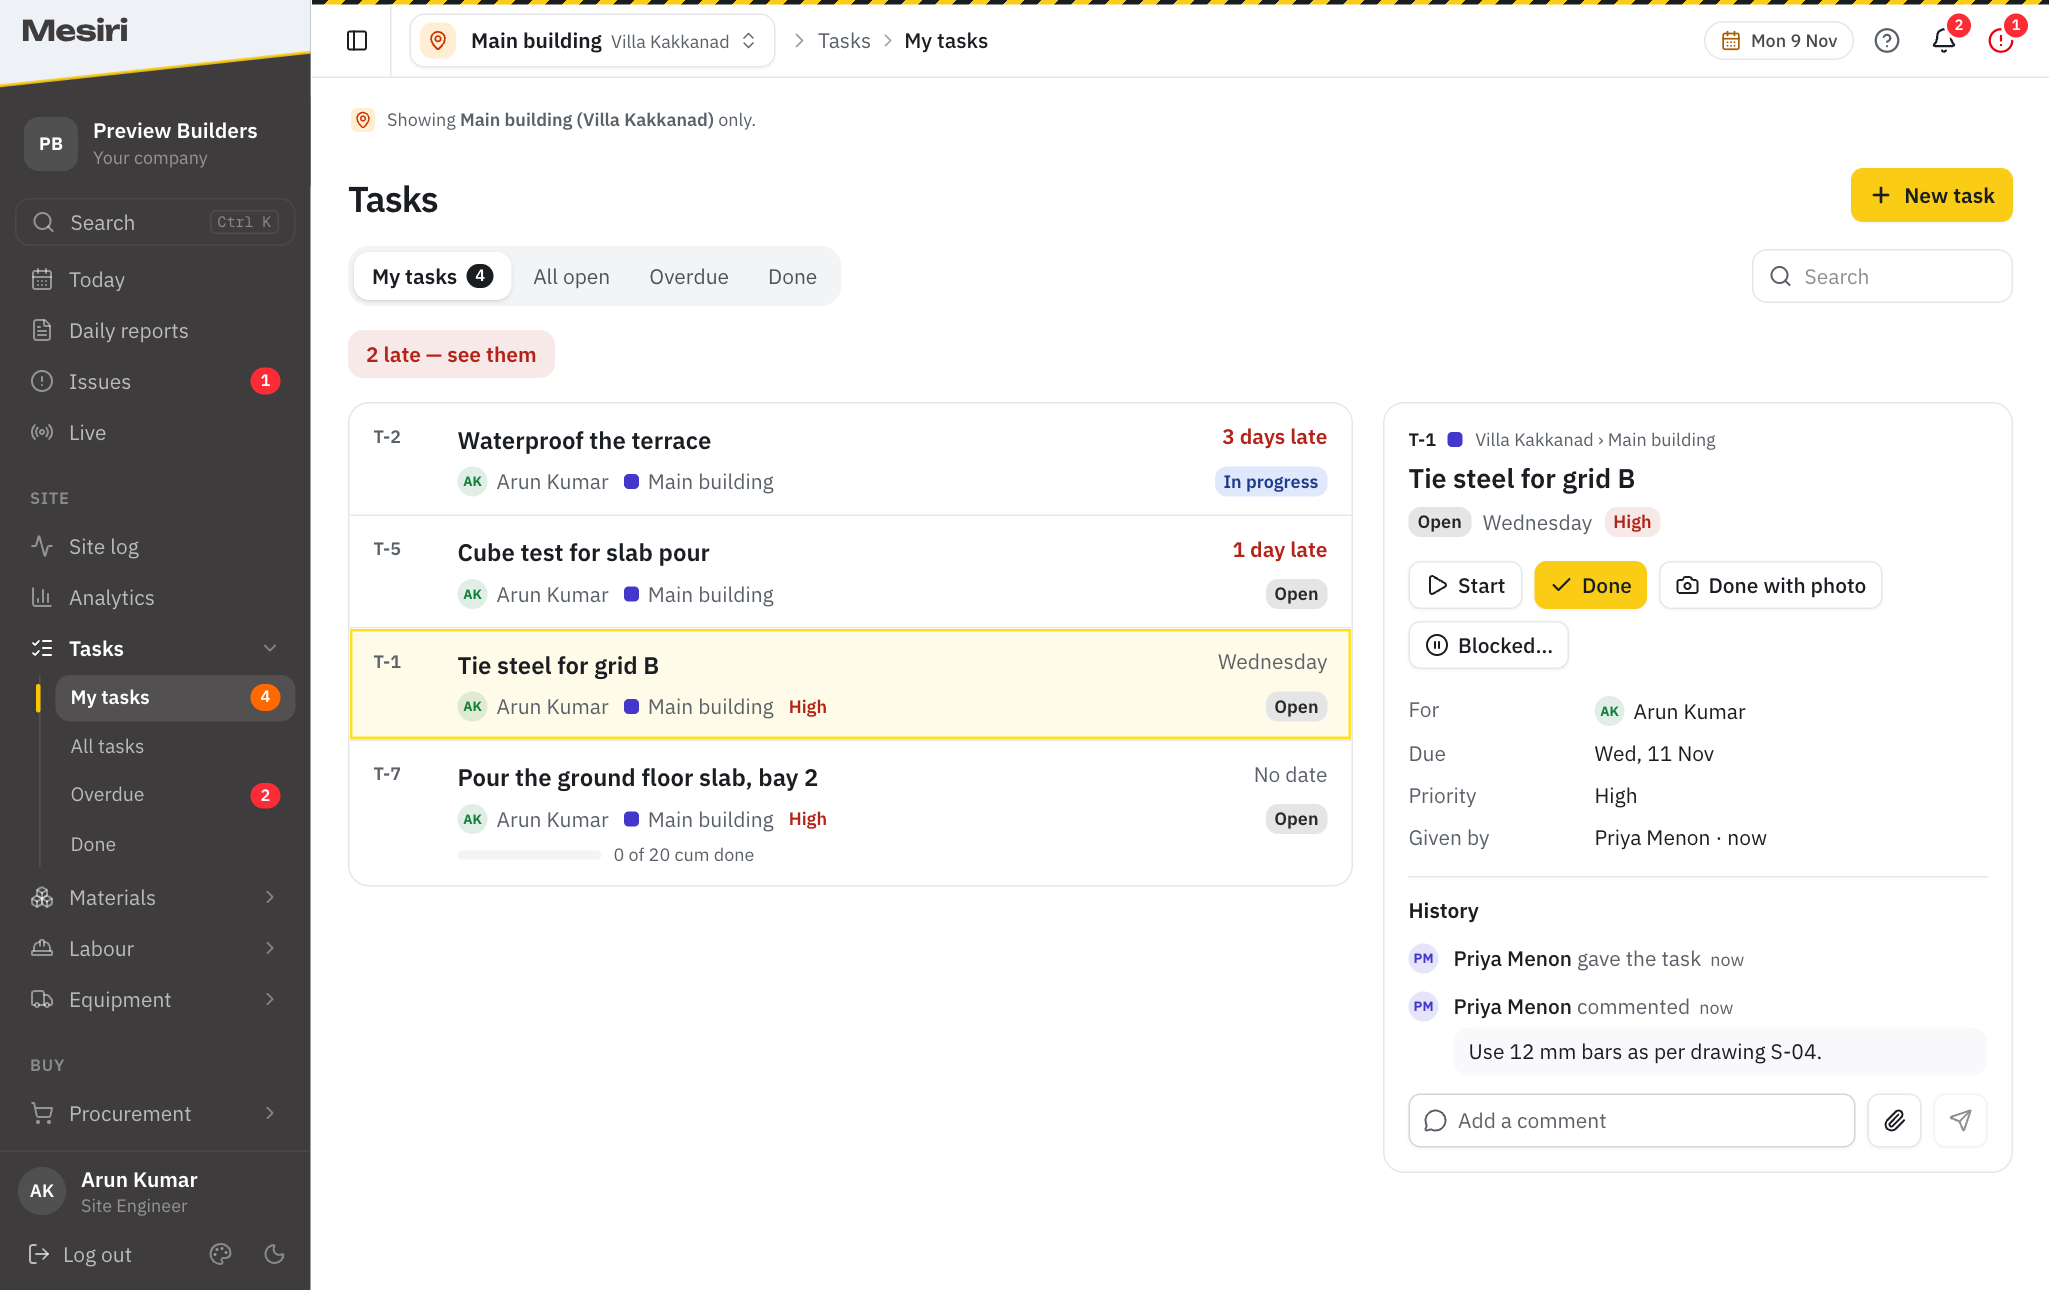
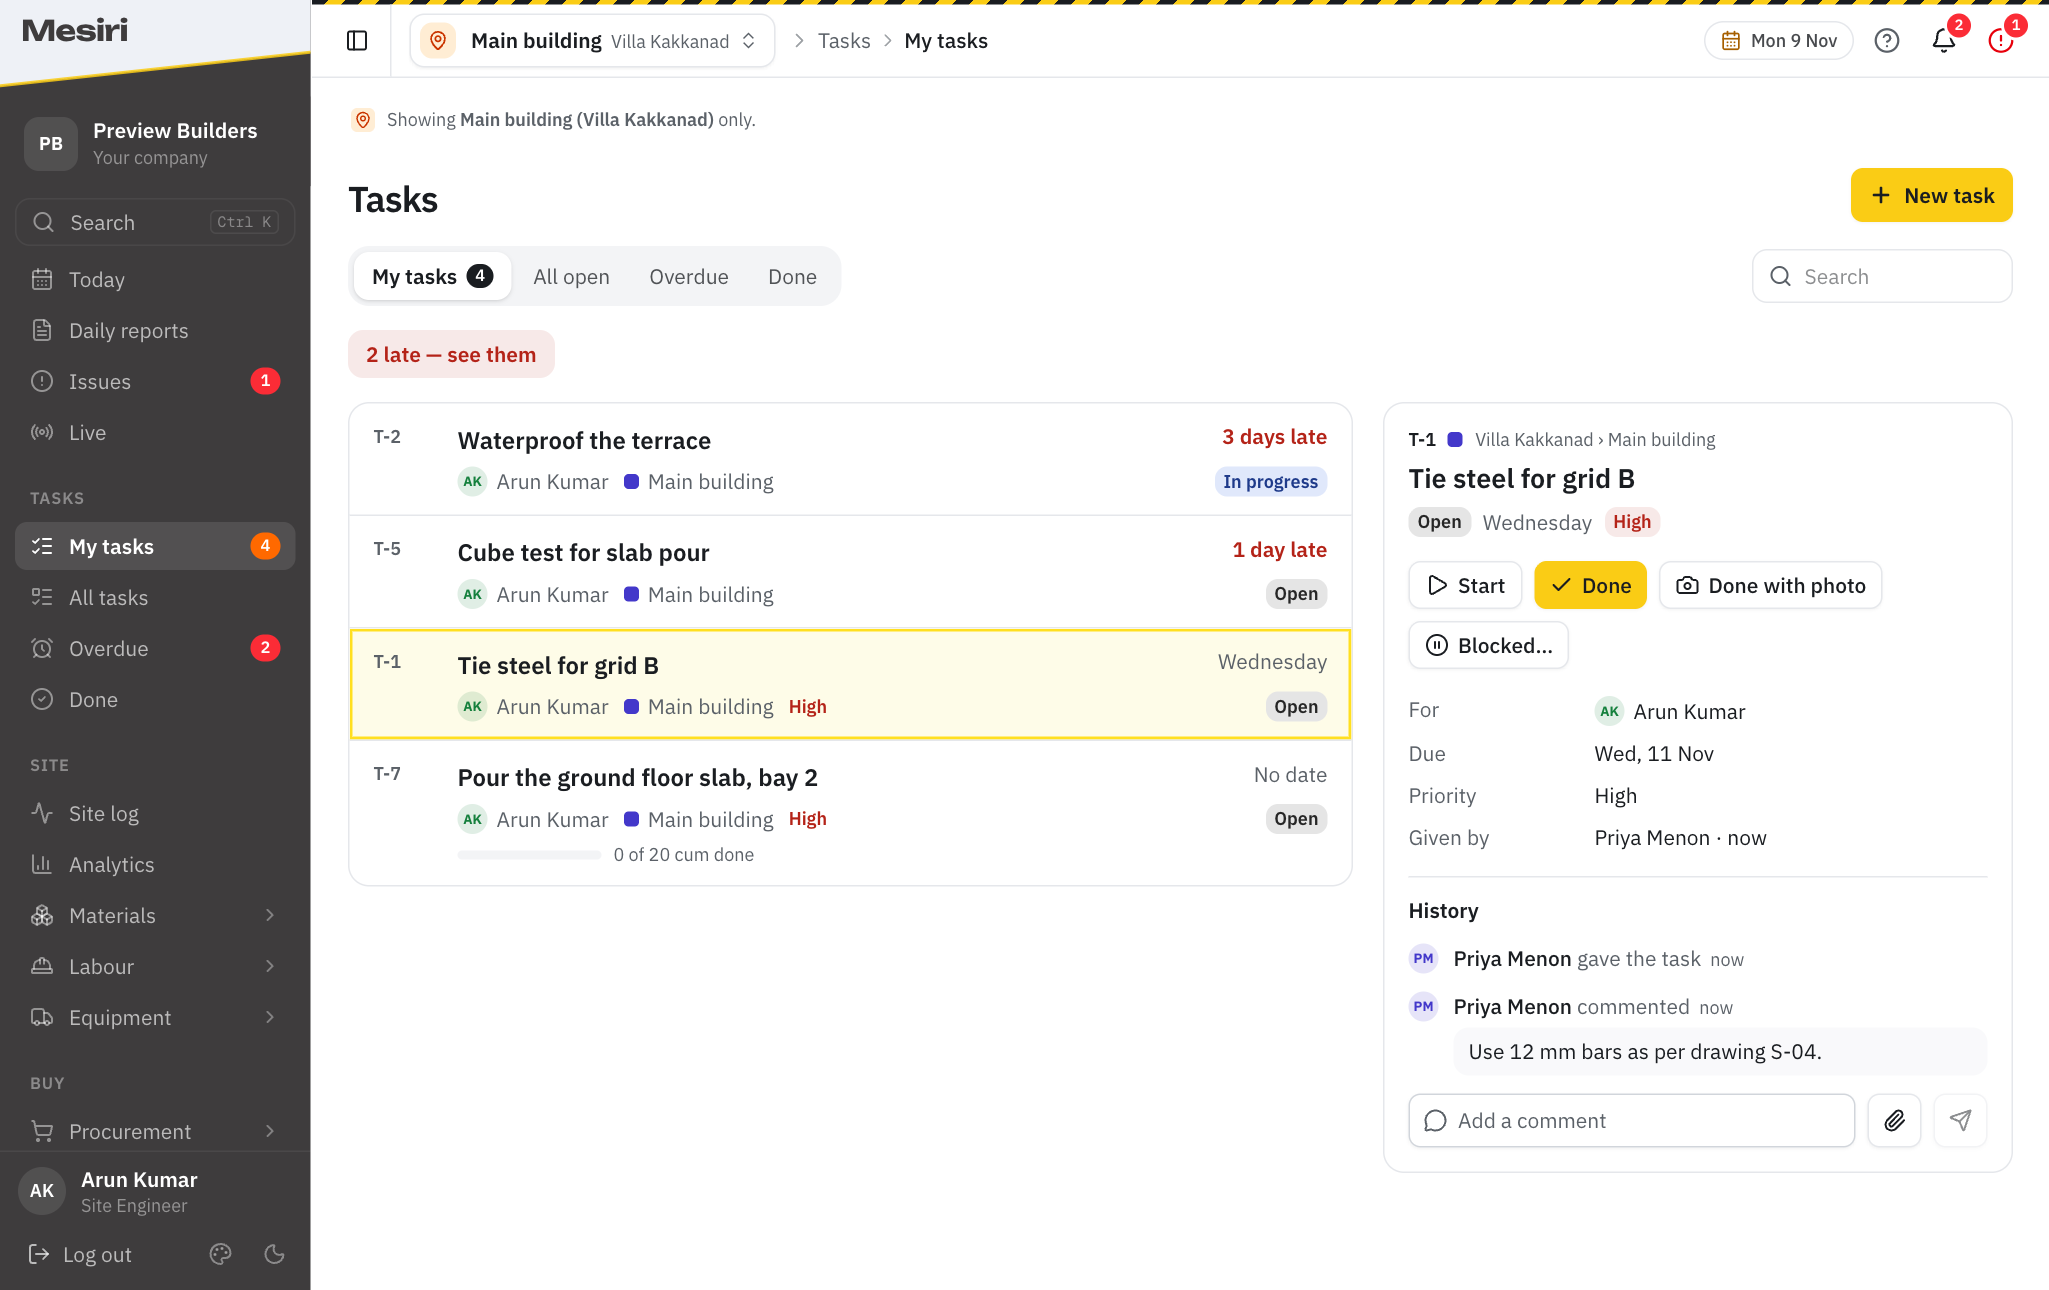
feat(dashboard): Tasks gets its own sidebar section, TASKS, with its pages as rows (TSK-13)
Asked by Adarsh, 9 Nov: Tasks as a separate section, not a drawer inside SITE.

- lib/module-map.ts: NavSection 'tasks' ("Tasks"), first after the daily pages for every role that
  gives or does tasks, last for finance. A group can be `flat`: its pages are its section's rows
  (only Tasks). Icons for the Tasks pages in PAGE_ICONS.
- Sidebar: flat rows carry their counts (My tasks orange, Overdue red) and are lit only on their
  own ?view=. Help and search hints say "Tasks", not "Tasks > Tasks".
- Fix found on the way: the sidebar rows were NavLinks, which set aria-current from the path alone,
  so every ?view= of a page (the four Tasks rows; Automations under /whatsapp) was announced as the
  current page. They are Links now; the sidebar already decides which row is current.
- Walkthrough screenshots and wording updated to the new section.

diff --git a/apps/dashboard/src/components/app-sidebar.tsx b/apps/dashboard/src/components/app-sidebar.tsx
@@ -20,7 +20,7 @@ import {
   Search,
   Settings as SettingsIcon,
 } from 'lucide-react'
-import { NavLink, Link, useLocation, useNavigate } from 'react-router-dom'
+import { Link, useLocation, useNavigate } from 'react-router-dom'
 import {
   Sidebar,
   SidebarContent,
@@ -61,6 +61,10 @@ type NavItem = {
   module?: ModuleKey
   // Which live count to show as a badge (WEB-20).
   badge?: 'drafts' | 'issues'
+  // A page's own live count (TSK-06), as on a drawer's page.
+  count?: SubCount
+  // Lit only on its own view (?view=), as a drawer's page is: a section's flat rows (Tasks).
+  exact?: boolean
   // Small text at the row's end, e.g. "3/6" on Finish setup (SS-19).
   note?: string
   // A planned page (WEB-72), shown only with the preview on.
@@ -473,6 +477,13 @@ export function AppSidebar() {
     for (const group of MODULE_GROUPS.filter((g) => g.section === section && isModuleEnabled(g.module))) {
       const category = toCategory(group)
       if (category.items.length === 0) continue
+      if (group.flat) {
+        // Its own section (Tasks): each page is a row, with its icon and its count.
+        for (const p of category.items) {
+          entries.push({ kind: 'link', item: { title: p.title, url: p.url, icon: PAGE_ICONS[p.url] ?? group.icon, soon: p.soon, count: p.count, exact: true } })
+        }
+        continue
+      }
       if (category.items.length === 1) {
         const only = category.items[0]
         entries.push({ kind: 'link', item: { title: group.key === 'labour' ? only.title : group.title, url: only.url, icon: group.icon, soon: only.soon } })
@@ -498,15 +509,16 @@ export function AppSidebar() {
 
   const renderLink = (item: NavItem) => {
     const ItemIcon = item.icon
-    const active = checkIsItemActive(location.pathname, item.url)
-    const count = item.badge === 'drafts' ? counts.drafts : item.badge === 'issues' ? counts.openIssues : 0
-    // A plain string className, not NavLink's function form: SidebarMenuButton
-    // (asChild -> Radix Slot) merges className as text, which silently drops
-    // a function, so the active state never rendered.
+    const active = item.exact ? isSubItemActive(location.pathname, location.search, item.url) : checkIsItemActive(location.pathname, item.url)
+    const tone = item.count?.tone ?? item.badge
+    const count = item.count ? item.count.n : item.badge === 'drafts' ? counts.drafts : item.badge === 'issues' ? counts.openIssues : 0
+    // A plain string className: SidebarMenuButton (asChild -> Radix Slot) merges className as text, which silently
+    // drops a function, so the active state never rendered. A Link, not a NavLink: NavLink sets aria-current from
+    // the path alone, so every ?view= of a page (the Tasks rows, Automations under /whatsapp) was "current".
     return (
       <SidebarMenuItem key={item.title}>
         <SidebarMenuButton asChild tooltip={item.title} isActive={active}>
-          <NavLink
+          <Link
             to={getUrlWithScope(item.url)}
             aria-current={active ? 'page' : undefined}
             className={cn(NAV_LINK_BASE, S.ring, active ? S.rowActive : S.rowIdle, 'data-[active=true]:font-semibold')}
@@ -516,7 +528,7 @@ export function AppSidebar() {
               {count > 0 && (
                 <span
                   aria-hidden
-                  className={cn('absolute -top-1 -right-1 hidden size-2 rounded-full ring-2 ring-sidebar group-data-[collapsible=icon]:block', BADGE[item.badge!])}
+                  className={cn('absolute -top-1 -right-1 hidden size-2 rounded-full ring-2 ring-sidebar group-data-[collapsible=icon]:block', BADGE[tone!])}
                 />
               )}
             </span>
@@ -529,14 +541,14 @@ export function AppSidebar() {
               <span
                 className={cn(
                   'ml-auto min-w-5 rounded-full px-1.5 py-px text-center text-[11px] font-semibold tabular-nums group-data-[collapsible=icon]:hidden',
-                  BADGE[item.badge!],
+                  BADGE[tone!],
                 )}
-                title={item.badge === 'drafts' ? `${count} items to confirm today` : `${count} open issues`}
+                title={item.count ? `${count} ${item.count.label}` : item.badge === 'drafts' ? `${count} items to confirm today` : `${count} open issues`}
               >
                 {count > 99 ? '99+' : count}
               </span>
             )}
-          </NavLink>
+          </Link>
         </SidebarMenuButton>
       </SidebarMenuItem>
     )

diff --git a/apps/dashboard/src/lib/module-map.ts b/apps/dashboard/src/lib/module-map.ts
@@ -5,6 +5,8 @@ import {
   Boxes,
   Calculator,
   CalendarDays,
+  AlarmClock,
+  CircleCheck,
   ClipboardCheck,
   ClipboardList,
   FileSearch,
@@ -87,14 +89,17 @@ export interface ModuleGroup {
   /** Where the module sits in the project's story (UX-04, docs/plans/ui-story-plan.md section 4): the sidebar
    *  shows the daily pages, then PLAN, SITE, BUY, MONEY, then Settings. */
   section: NavSection
+  /** Its pages are its section's rows, with no drawer (Tasks: a section of its own, Adarsh 9 Nov 2026). */
+  flat?: boolean
   pages: ModulePage[]
 }
 
 /** The sidebar's sections, in the order of a project's life (UX-04). */
-export type NavSection = 'daily' | 'plan' | 'site' | 'buy' | 'money' | 'settings'
+export type NavSection = 'daily' | 'tasks' | 'plan' | 'site' | 'buy' | 'money' | 'settings'
 
 export const SECTION_TITLES: Record<NavSection, string> = {
   daily: 'Every day',
+  tasks: 'Tasks',
   plan: 'Plan',
   site: 'Site',
   buy: 'Buy',
@@ -104,12 +109,14 @@ export const SECTION_TITLES: Record<NavSection, string> = {
 
 /** Each role's day comes first (UX-04/UX-11): the same sections, in the order the role reaches for them. */
 export const SECTION_ORDER: Record<string, NavSection[]> = {
-  ADMIN: ['plan', 'site', 'buy', 'money'],
-  OWNER: ['plan', 'site', 'buy', 'money'],
-  SUPER_ADMIN: ['plan', 'site', 'buy', 'money'],
-  PROJECT_MANAGER: ['site', 'plan', 'buy', 'money'],
-  SITE_ENGINEER: ['site', 'buy', 'plan', 'money'],
-  FINANCE: ['money', 'buy', 'site', 'plan'],
+  // Tasks (who does what by when) comes first for everyone who gives or does them; finance neither gives nor does
+  // one, so it comes last for them.
+  ADMIN: ['tasks', 'plan', 'site', 'buy', 'money'],
+  OWNER: ['tasks', 'plan', 'site', 'buy', 'money'],
+  SUPER_ADMIN: ['tasks', 'plan', 'site', 'buy', 'money'],
+  PROJECT_MANAGER: ['tasks', 'site', 'plan', 'buy', 'money'],
+  SITE_ENGINEER: ['tasks', 'site', 'buy', 'plan', 'money'],
+  FINANCE: ['money', 'buy', 'site', 'plan', 'tasks'],
 }
 
 export function sectionOrder(role: string | null | undefined): NavSection[] {
@@ -144,9 +151,11 @@ export const MODULE_GROUPS: ModuleGroup[] = [
     tone: 'amber',
     about: 'Who does what by when: given here, moved to done by the person it is for, late ones flagged.',
     // TSK-01/02 (9 Nov 2026): a module of its own, switched on per company like Cost control. Web only for now
-    // (Adarsh, 9 Nov): no WhatsApp tools or reminders, so no `whatsapp` sentence on its pages.
+    // (Adarsh, 9 Nov): no WhatsApp tools or reminders, so no `whatsapp` sentence on its pages. Its own sidebar
+    // section, TASKS, with the pages as rows (Adarsh, 9 Nov: "own sidebar section").
     module: 'tasks',
-    section: 'site',
+    section: 'tasks',
+    flat: true,
     pages: [
       { title: 'My tasks', url: '/tasks', status: 'built', phase: 'V1', about: 'What is given to you, late first, then by the day it is due.', example: 'T-14 Tie steel for grid B, due Thursday; T-9 blocked: no shuttering.', tracker: 'TSK-02' },
       { title: 'All tasks', url: '/tasks?view=all', status: 'built', phase: 'V1', about: 'Every open task on the projects you see, by person, site and due day.', example: '23 open at Villa Kakkanad: 4 late, 6 due this week.', tracker: 'TSK-02' },
@@ -384,6 +393,11 @@ export function findPage(pathname: string, search = ''): { group: ModuleGroup; p
 /** Icons for the few built pages the sidebar shows as plain links. */
 export const PAGE_ICONS: Record<string, LucideIcon> = {
   '/today': CalendarDays,
+  '/tasks': ListChecks,
+  '/tasks?view=all': ListTodo,
+  '/tasks?view=overdue': AlarmClock,
+  '/tasks?view=done': CircleCheck,
+  '/tasks/checklists': ClipboardCheck,
   '/reports': FileText,
   '/issues': AlertCircle,
   '/site-log': Activity,

diff --git a/apps/dashboard/src/components/help-button.tsx b/apps/dashboard/src/components/help-button.tsx
@@ -40,7 +40,7 @@ export function HelpButton() {
   const about = page?.about ?? extra?.about ?? 'Your sites, reported on WhatsApp: open any part of Mesiri from the sidebar or search.'
   const example = page?.example ?? extra?.example
   const whatsapp = page?.whatsapp ?? extra?.whatsapp
-  const where = group ? (group.key === 'site' ? SECTION_TITLES.daily : `${SECTION_TITLES[group.section]} › ${group.title}`) : null
+  const where = group ? (group.key === 'site' ? SECTION_TITLES.daily : (SECTION_TITLES[group.section] === group.title ? group.title : `${SECTION_TITLES[group.section]} › ${group.title}`)) : null
   const siblings =
     group?.pages.filter(
       (p) => p.status === 'built' && !p.shortcut && p.url !== page?.url && (!p.roles || p.roles.includes(role)) && (!p.module || isModuleEnabled(p.module)),

diff --git a/apps/dashboard/src/components/jump-box.tsx b/apps/dashboard/src/components/jump-box.tsx
@@ -68,7 +68,7 @@ export function JumpBox() {
         .map((p) => ({
           key: p.url,
           title: p.title,
-          hint: group.key === 'site' ? SECTION_TITLES.daily : `${SECTION_TITLES[group.section]} · ${group.title}`,
+          hint: group.key === 'site' ? SECTION_TITLES.daily : (SECTION_TITLES[group.section] === group.title ? group.title : `${SECTION_TITLES[group.section]} · ${group.title}`),
           url: p.url,
           icon: PAGE_ICONS[p.url] ?? group.icon,
           words: `${p.title} ${p.navTitle ?? ''} ${group.title} ${p.about}`.toLowerCase(),

diff --git a/docs/training/tasks/tasks-walkthrough.md b/docs/training/tasks/tasks-walkthrough.md
@@ -28,7 +28,7 @@ of the finished work stays with the job."**
   gave or were given.
 - Tasks are numbered per project: **T-1, T-2, …**. Say "T-14" on site and everyone means the same job.
 - Tasks is on by default. The Mesiri team switches it off for a company in the control panel (Settings → Modules
-  shows it to the company). When it is off, the sidebar group, the counts and the Today card all disappear.
+  shows it to the company). When it is off, the TASKS section, the counts and the Today card all disappear.
 
 ## 3. The engineer's morning: Today
 
@@ -36,8 +36,8 @@ of the finished work stays with the job."**
 
 - **My tasks card** at the top of Today: how many are mine, how many are late, and the first three, late first.
   A tap opens the task.
-- **Sidebar, Tasks:** *My tasks* shows mine still open (orange). *Overdue* shows the late ones (red). When the drawer
-  is closed, it shows the red number first.
+- **Sidebar, the TASKS section** (its own heading, right under Live; last for finance): *My tasks* shows mine still
+  open (orange), *Overdue* the late ones (red), then *All tasks* and *Done*.
 - A manager also sees **"N tasks late for others in your projects"**, which opens the Overdue list.
 - The counts follow the project picked at the top of the page, like the rest of Today.
 

diff --git a/docs/plans/tasks-plan.md b/docs/plans/tasks-plan.md
@@ -195,8 +195,9 @@ Languages: the three the other alerts use (`alerts.words`).
 
 - `src/lib/tasks.ts`: types, query hooks, mutations (the same shape as `lib/schedule.ts`).
 - Built on the page kit in `components/page/` (UX-05: PageHeader, FilterBar, ListDetail, EmptyState) and placed
-  in its own sidebar group (placed by the UX-04 story order, next to Planning), so it matches the pages being
-  moved onto the kit.
+  in its own sidebar section, TASKS, with its pages as rows (`flat` group in `lib/module-map.ts`), first after the
+  daily pages for everyone but finance (Adarsh, 9 Nov: "own sidebar section"), so it matches the pages being moved
+  onto the kit.
 - **The module on the web:** `tasks` in `lib/modules.ts` (`ModuleKey`, `MODULE_NAMES`: "Tasks"); a `tsk()` guard
   in `App.tsx` (`RequireModule module="tasks"`, like `cst()`); its own **Tasks** group in `lib/module-map.ts` with
   `module: 'tasks'`, hidden when the module is off. `/planning/tasks` redirects to `/tasks` and the Planning
